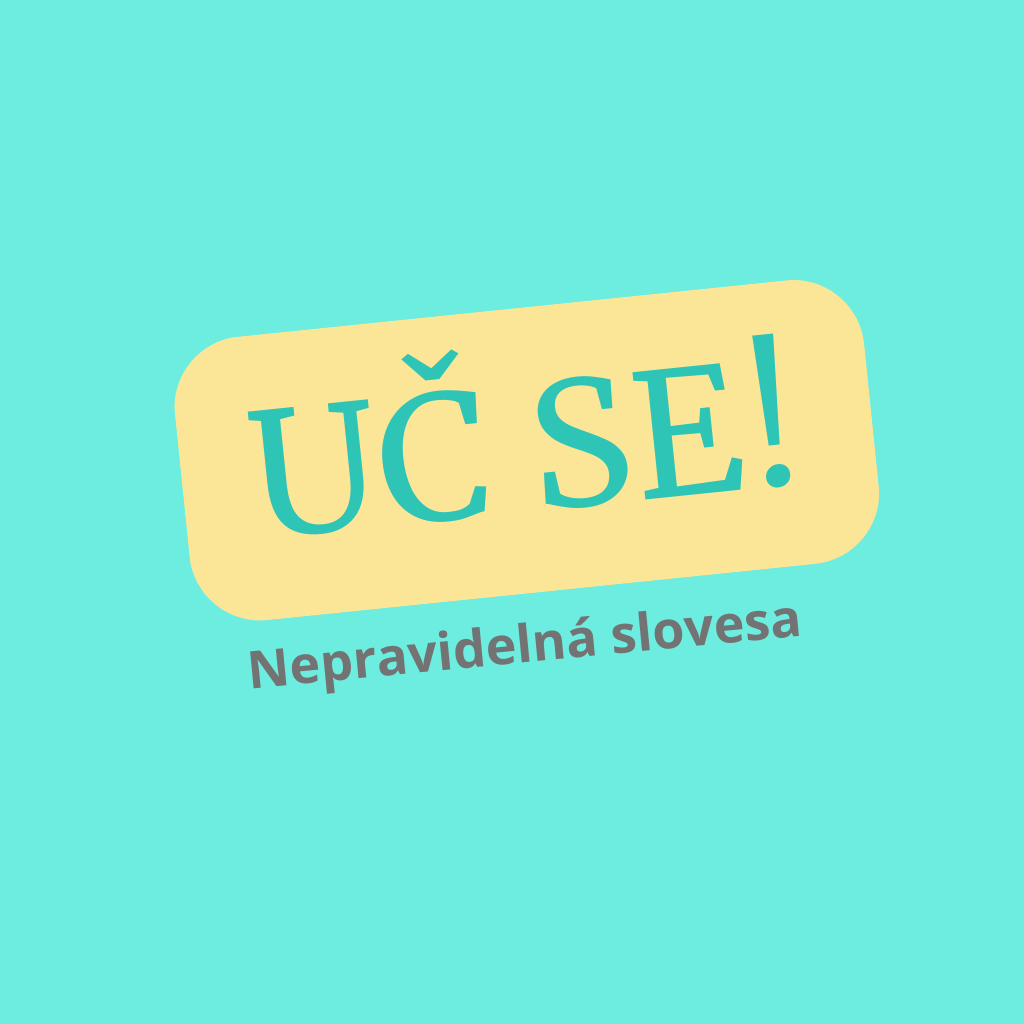
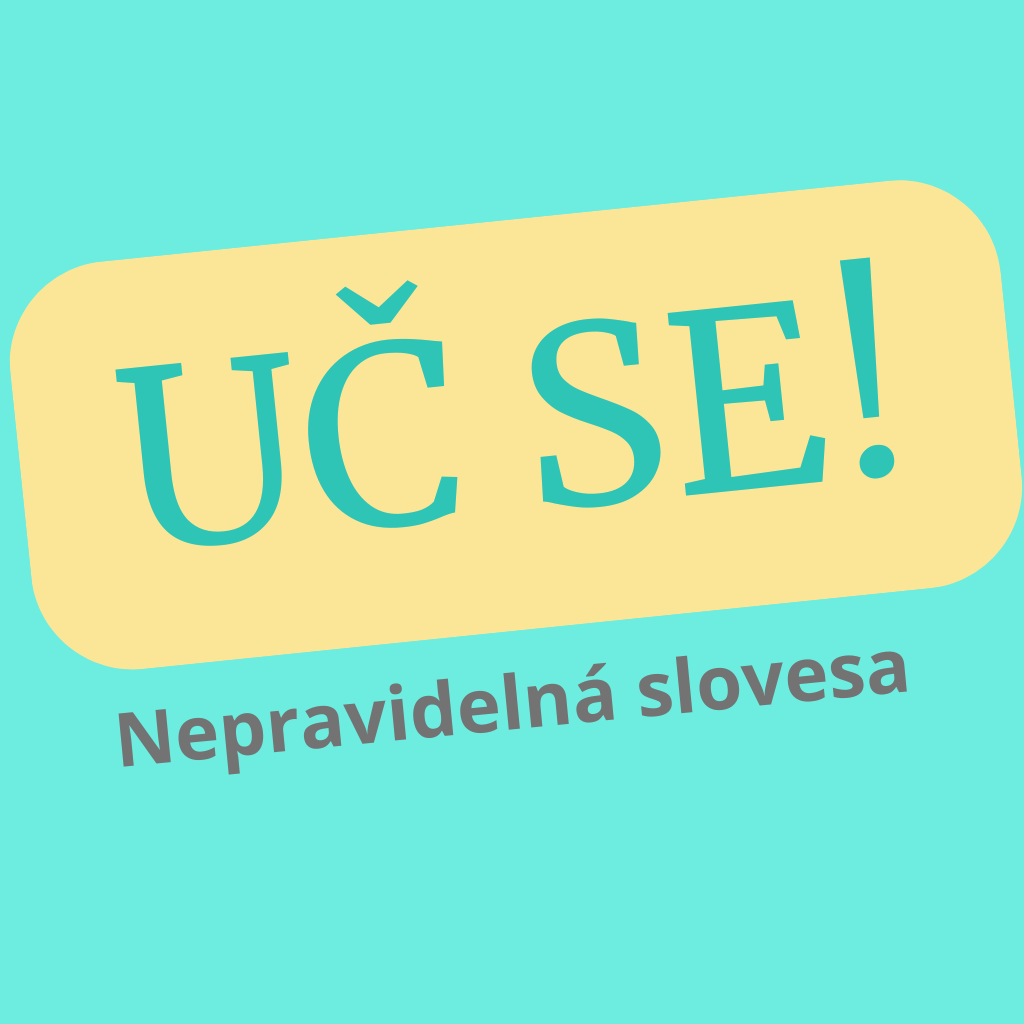
Aktualizace ikony - větší motiv UČ SE!
- icon-source.png nahrazen novou variantou s větším razítkem
- Regenerace 180/192/512
- SW cache v24

Changed region(s): [[0.0, 0.1562, 1.0, 0.75]]

diff --git a/sw.js b/sw.js
@@ -1,5 +1,5 @@
 // Simple cache-first service worker for offline PWA use
-const CACHE = 'slovesa-v23';
+const CACHE = 'slovesa-v24';
 const ASSETS = [
   './',
   './index.html',
